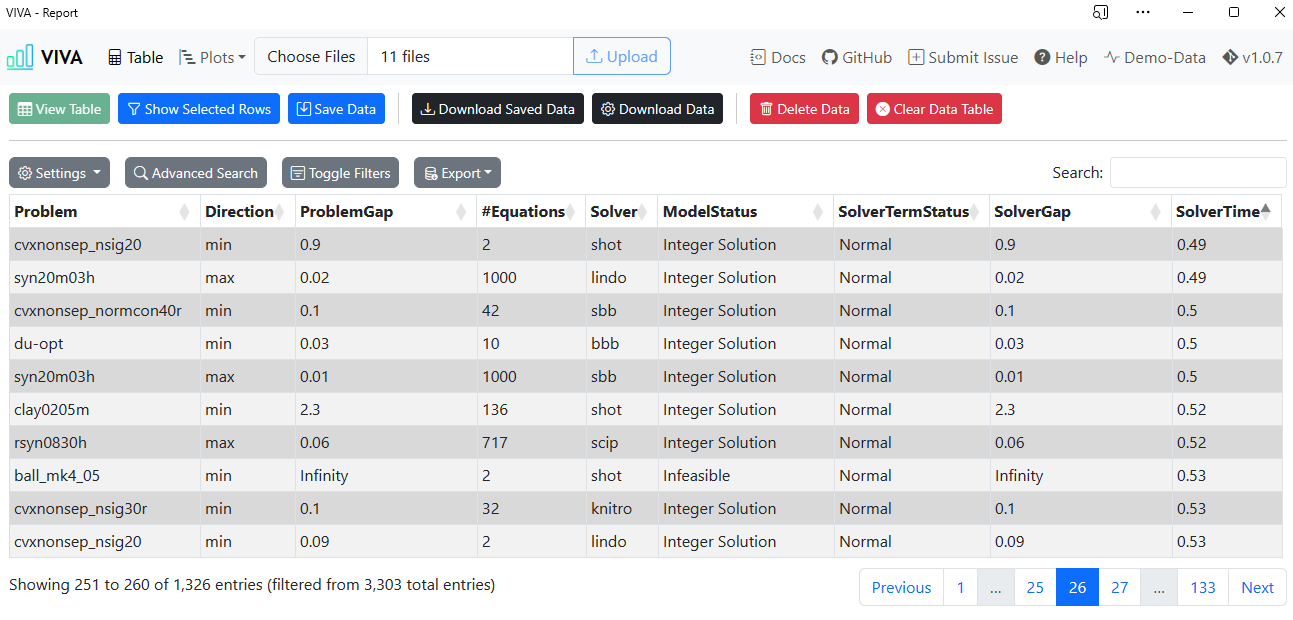
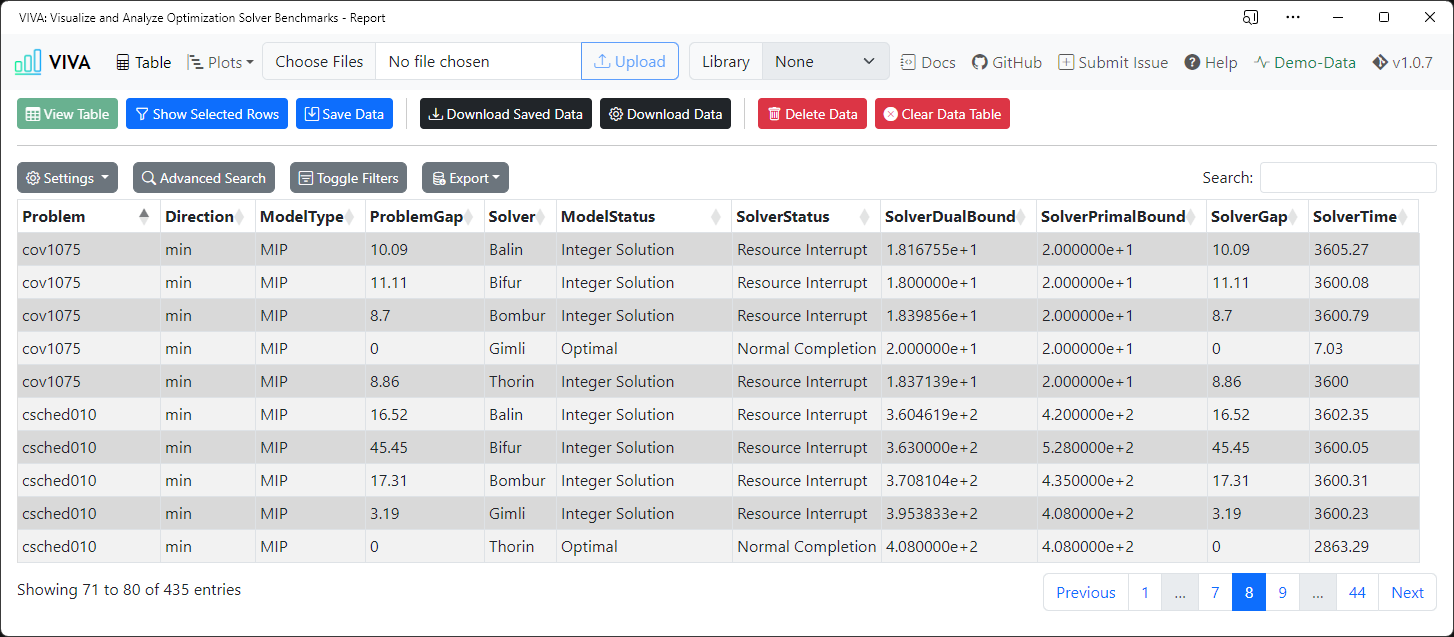
Updated readme.

diff --git a/Docs/README.md b/Docs/README.md
@@ -1,7 +1,7 @@
 ![VIVA](https://img.shields.io/github/v/release/Oscar-97/VIVA-Benchmark-Data-Analysis) ![License](https://img.shields.io/badge/License-MIT-brightgreen) ![Languages](https://img.shields.io/github/languages/count/Oscar-97/VIVA-Benchmark-Data-Analysis) ![TypeScript](https://img.shields.io/badge/typescript-%23007ACC.svg?style=flat&logo=typescript&logoColor=white) ![Webpack](https://img.shields.io/badge/webpack-%238DD6F9.svg?style=flat&logo=webpack&logoColor=black) ![Bootstrap](https://img.shields.io/badge/bootstrap-%23563D7C.svg?style=flat&logo=bootstrap&logoColor=white) ![Chart.js](https://img.shields.io/badge/chart.js-F5788D.svg?style=flat&logo=chart.js&logoColor=white)
 
 # VIVA: Visualize, Interact, Verify, and Analyze Benchmarking Data for Optimization Solvers
-Building on the concept and implementation of [PAVER 2.0](https://github.com/coin-or/paver), the main goal of this project is to allow end users to interact with their own uploaded benchmark data from mathematical optimization problems and their solvers. The data is presented in a tabular format, with the added ability to visualize specific results through various plots, making it easier to understand and interpret the data. Demo-data is attained from [miplib2010 examples](https://github.com/coin-or/Paver/tree/master/examples/miplib2010).
+Building on the concept and implementation of [PAVER 2.0](https://github.com/coin-or/paver), the main goal of this project is to allow end users to interact with their own uploaded benchmark data from mathematical optimization problems and their solvers. The data is presented in a tabular format, with the added ability to visualize specific results through various plots, making it easier to understand and interpret the data. Demo-data is attained from [miplib2010 examples](https://github.com/coin-or/Paver/tree/master/examples/miplib2010). The `.solu` file data from the problem libraries [MINLPLib](https://www.minlplib.org/minlplib.solu) and [MIPLIB 2017](https://miplib.zib.de/downloads/miplib2017-v26.solu) can be accessed directly through a dropdown option in the navigation menu.
 
 This project is developed using TypeScript, DataTables.js, Chart.js and Webpack. Bootstrap is used for styling.  Notably, the application can be run without a live server since Webpack is responsible for bundling the files. It is also possible to install it as a Progressive Web Application by launching the project in a live server, navigating to the report page using a compatible browser, and installing it. Support for offline functionality is incldued in the PWA implementation.
 
@@ -11,16 +11,14 @@ This project is developed using TypeScript, DataTables.js, Chart.js and Webpack.
 
 ## TODO:
 
-- Add more ESLint rules for better structuring.
-- Expand `UserConfiguration.json` support.
-- Upload from different directories.
 - Investigate support for trace files generated by Examiner.
+- Square comparison of solvers (table format).
 
 ## Instructions for using the system
 - To get started with the project, either download or clone the repository and open the `report.html` file in a web browser. 
 - Click the "Browse" button to upload the results and select either:
     - one or more results file in a `.trc` format.
-        - .solu (best known primal and dual bounds for each instance) and .csv (instance properties) can be uploaded in conjugation to get additional information.
+        - `.solu` (best known primal and dual bounds for each instance) and `.csv` (instance properties) can be uploaded in conjugation to get additional information.
     - or a single `UserConfiguration.json` (Which can be created from this application).
 - Once you have selected a file, click on upload.
 - Click on the View All Results/View Plot button to get a table or plot with the benchmark results, depending on the currently active page.
